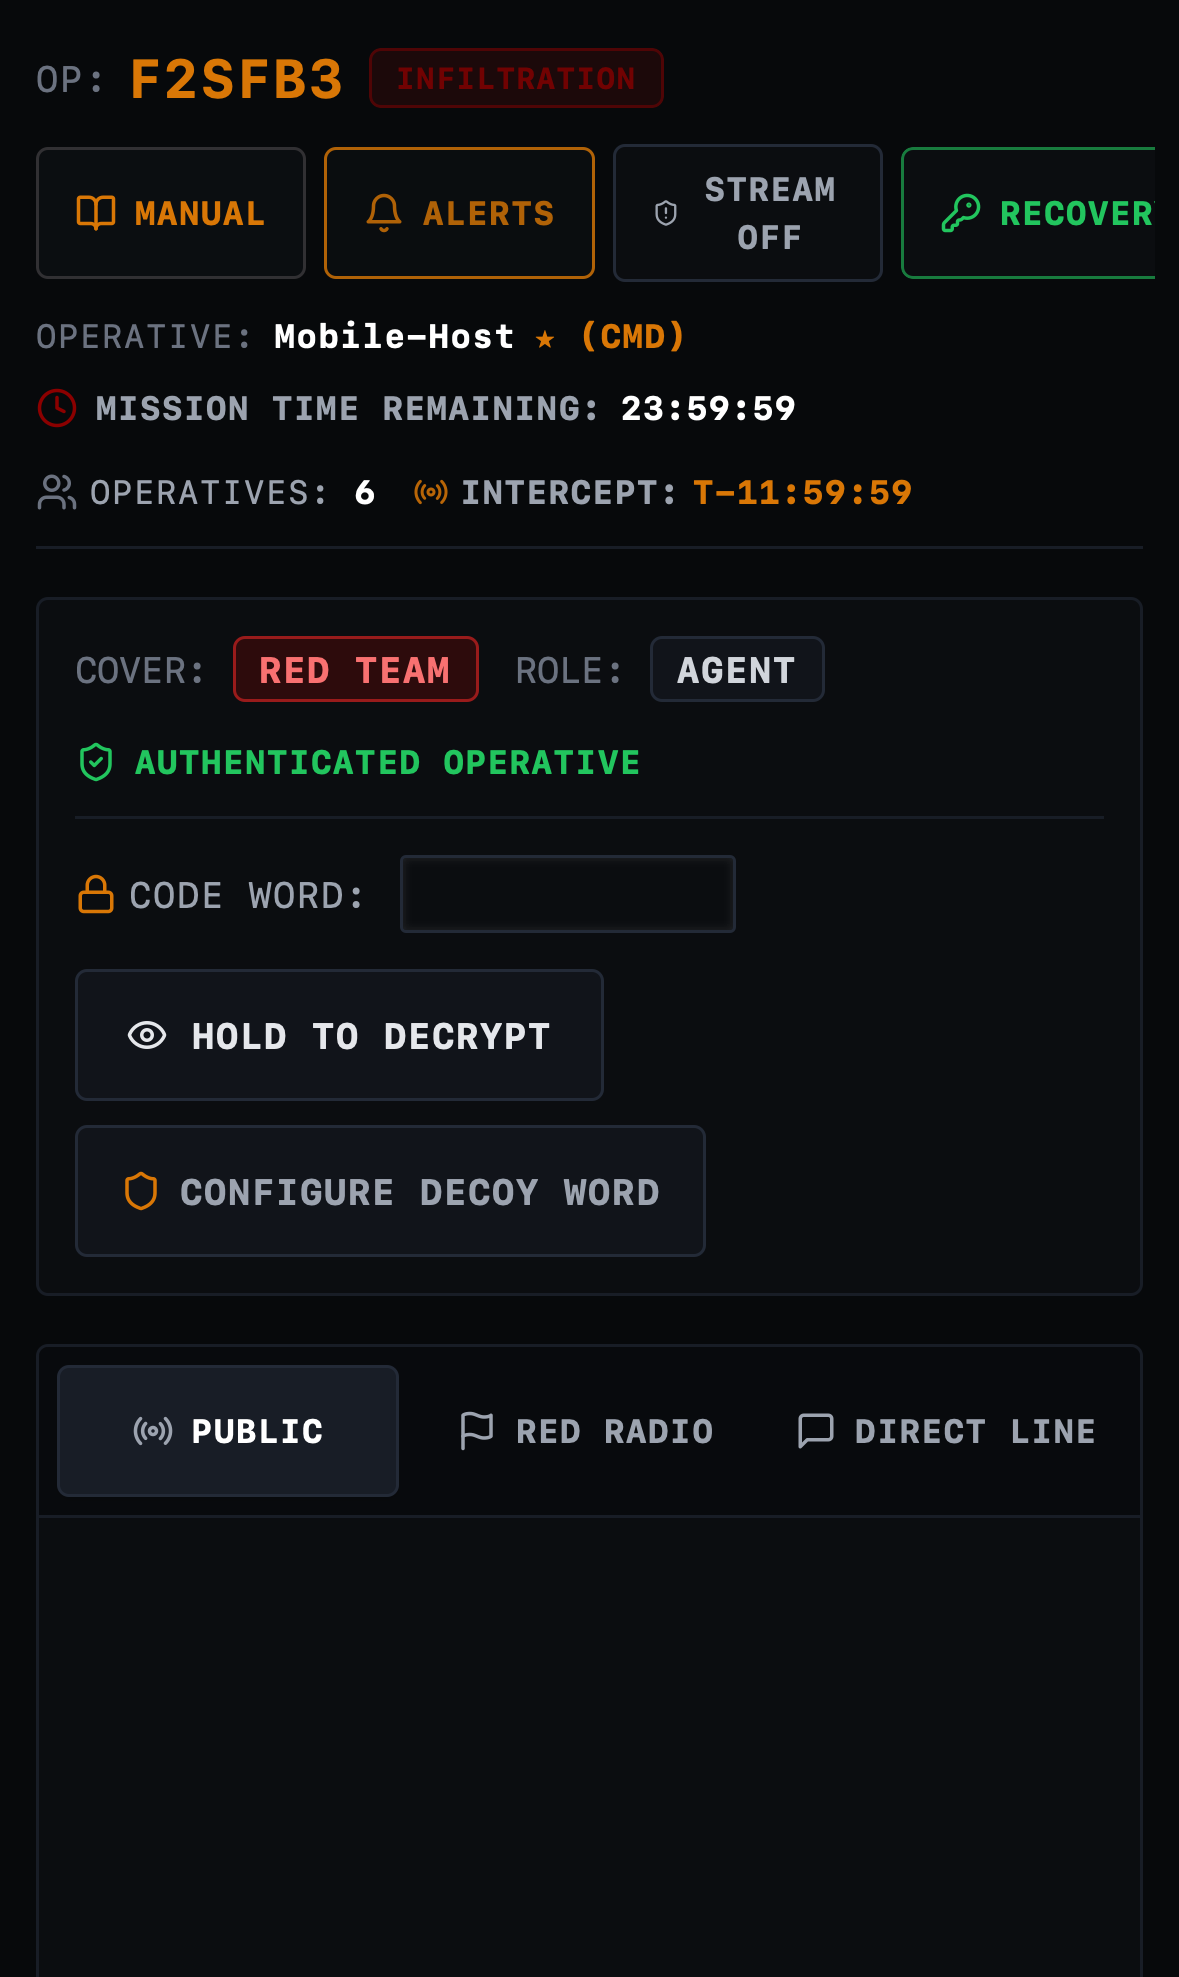
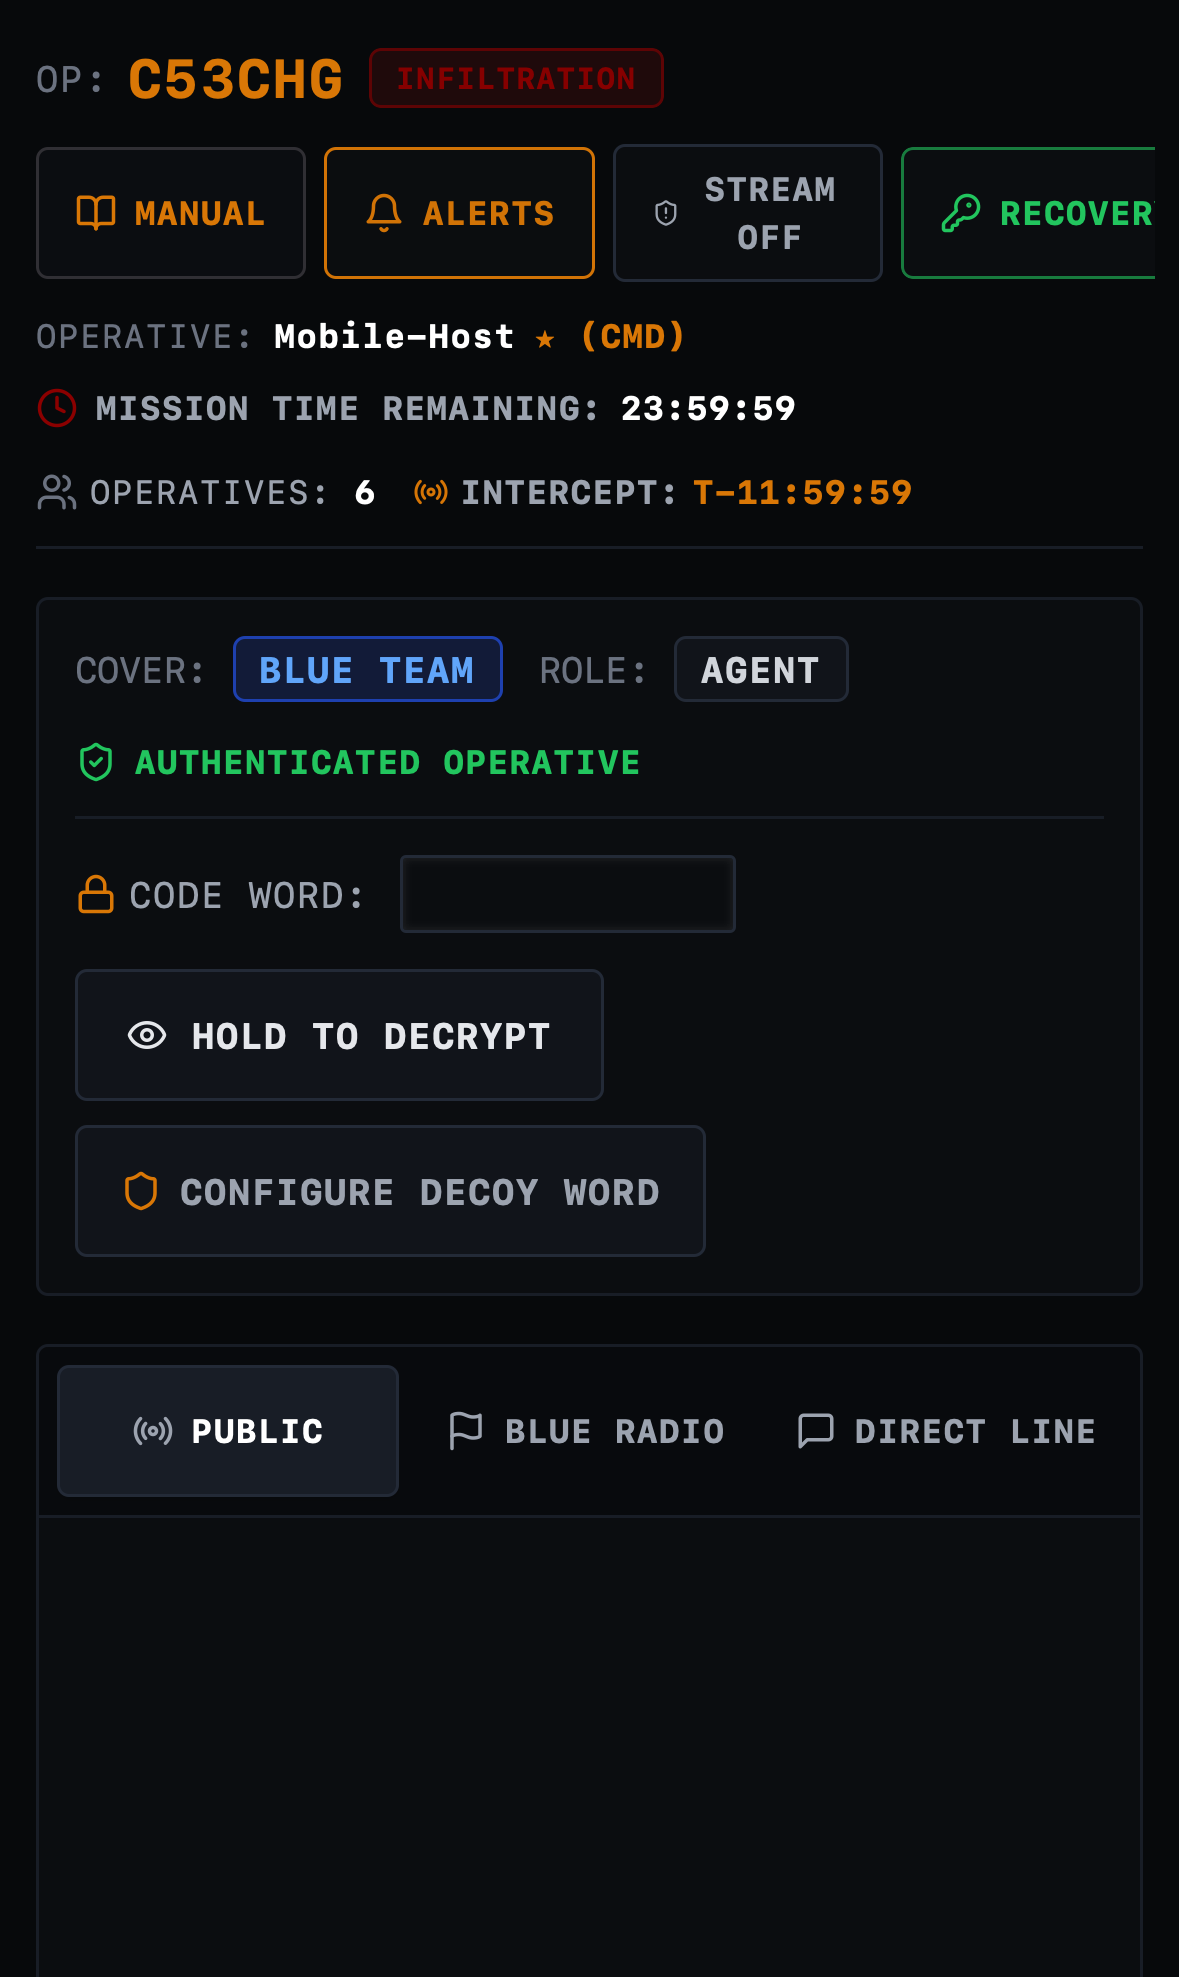
refactor(briefing): clarify field agent objectives and remove premature deliberation wire copy

diff --git a/src/app/room/[code]/page.tsx b/src/app/room/[code]/page.tsx
@@ -3828,18 +3828,18 @@ export default function RoomPage() {
                     <span className="text-nano text-classified-amber font-bold uppercase">LOYAL OPERATIVE</span>
                   </div>
                   <p>
-                    You are an active <strong className="text-white">Field Operative</strong> for the{" "}
-                    <strong className="text-classified-amber">{self.apparentTeam} FACTION</strong>. Your mission is to
-                    protect your code word from enemy extraction while collaborating on Team radio to discover enemy words.
+                    You are a loyal <strong className="text-white">Field Agent</strong> for the{" "}
+                    <strong className="text-classified-amber">{self.apparentTeam} FACTION</strong>. An enemy sleeper mole is hidden in your squad.
                   </p>
                   <ul className="list-disc pl-5 space-y-1.5 text-gray-400 pt-1">
                     <li>
-                      <strong className="text-white">Deliberation Wire:</strong> Propose and confirm candidate code words on the team
-                      deliberation board to achieve two-member consensus.
+                      <strong className="text-white">Expose the Mole:</strong> Coordinate in real life, on Team Radio, and via Direct Lines to identify the traitor in your ranks.
                     </li>
                     <li>
-                      <strong className="text-white">Vigilance:</strong> An enemy sleeper is embedded in your ranks.
-                      Watch for inconsistent stories, deflections, or false leads.
+                      <strong className="text-white">Protect Authentic Words:</strong> Shield your genuine words from suspects—or feed them decoys—so they cannot leak your secrets.
+                    </li>
+                    <li>
+                      <strong className="text-white">Unite with True Allies:</strong> Privately exchange authentic words with trusted teammates, including the opposing squad&apos;s mole who is secretly loyal to you.
                     </li>
                   </ul>
                 </>
